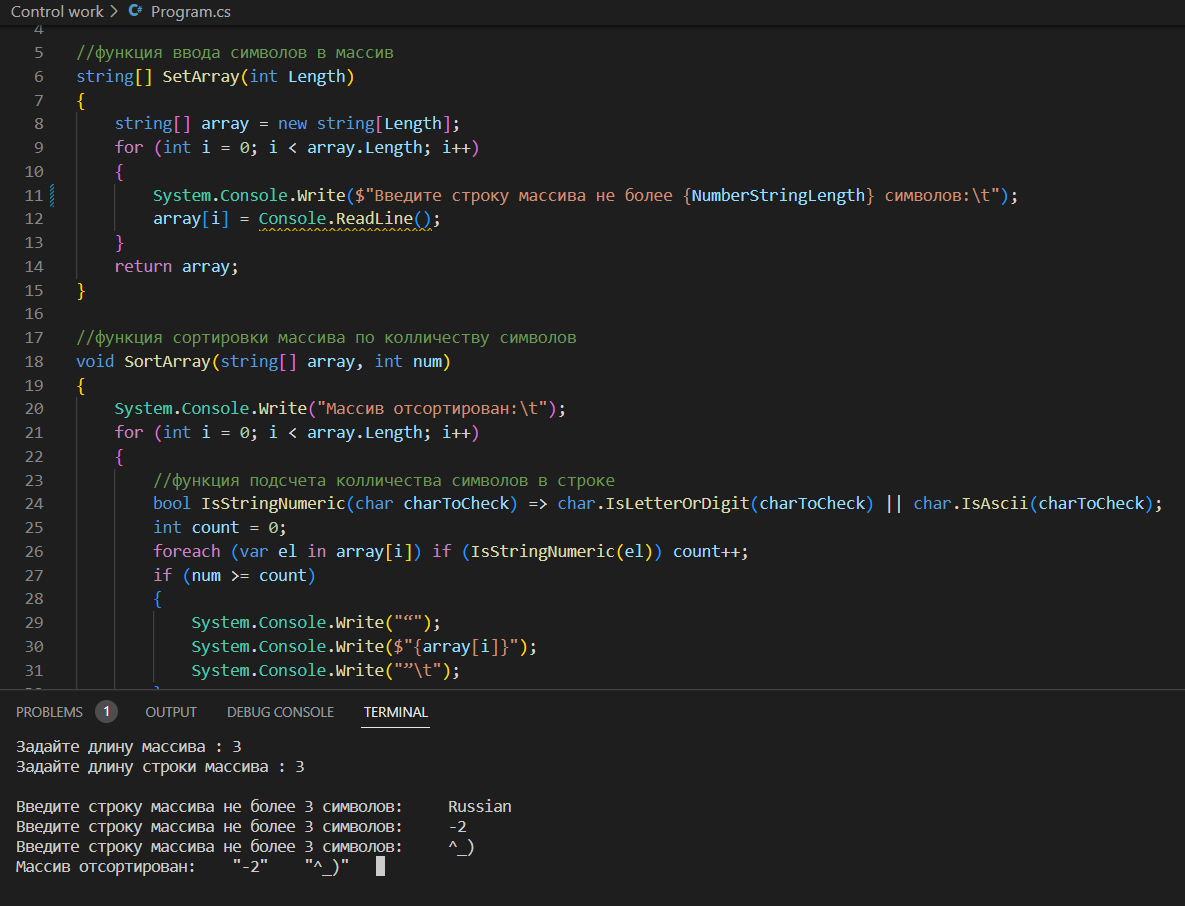
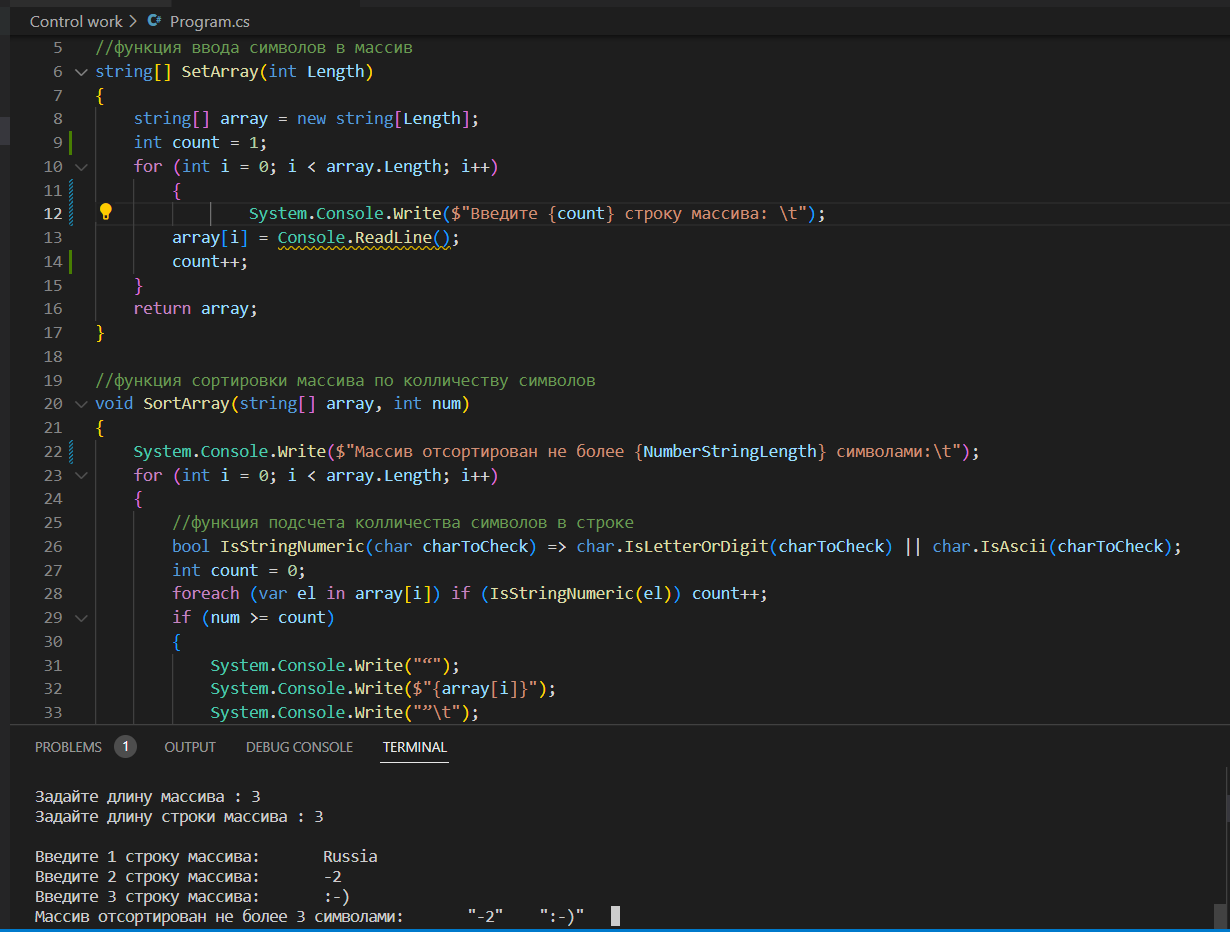
Изменен файл readme.md

diff --git a/Control work/Program.cs b/Control work/Program.cs
@@ -1,15 +1,17 @@
 Console.Clear();
 int N = ReadInt("Задайте длину массива : ");
-int NumberStringLength = ReadInt("Задайте длину строки массива : ");
+int NumberStringLength = ReadInt("Задайте ограничение длины строки массива : ");
 
 //функция ввода символов в массив 
 string[] SetArray(int Length)
 {
     string[] array = new string[Length];
+    int count = 1;
     for (int i = 0; i < array.Length; i++)
-    {
-        System.Console.Write($"Введите строку массива не более {NumberStringLength} символов:\t");
+        {
+                System.Console.Write($"Введите {count} строку массива: \t");
         array[i] = Console.ReadLine();
+        count++;
     }
     return array;
 }
@@ -17,7 +19,7 @@ string[] SetArray(int Length)
 //функция сортировки массива по колличеству символов
 void SortArray(string[] array, int num)
 {
-    System.Console.Write("Массив отсортирован:\t");
+    System.Console.Write($"Массив отсортирован не более {NumberStringLength} символами:\t");
     for (int i = 0; i < array.Length; i++)
     {
         //функция подсчета колличества символов в строке 

diff --git a/ReadMe.md b/ReadMe.md
@@ -1,3 +1,13 @@
+Алгоритм решения:
+
+Через функцию **int ReadInt(string message)** пользователь вводит данные через терминал.
+Пользователь вводит длинну массива в терминале.
+Вводит ограничение длины строки массива выводимой в терминале.
+
+Пользователь вносит через функцию **string[] SetArray(int Length)** первоначальный массив с клавиатуры для каждой строки.
+Далее функцией **bool IsStringNumeric(char charToCheck)** подсчитывается колличество символов в каждой строке массива и сравнивается с введенной длинной ограничения строки.
+Функция **void SortArray(string[] array, int num)** сортирует массив по колличеству символов и командой **SortArray(SetArray(N), NumberStringLength)** выводит отсортированный результат массива в терминал.
+
 Итоговая проверочная работа.
 
 Данная работа необходима для проверки ваших знаний и навыков по итогу прохождения первого блока обучения
